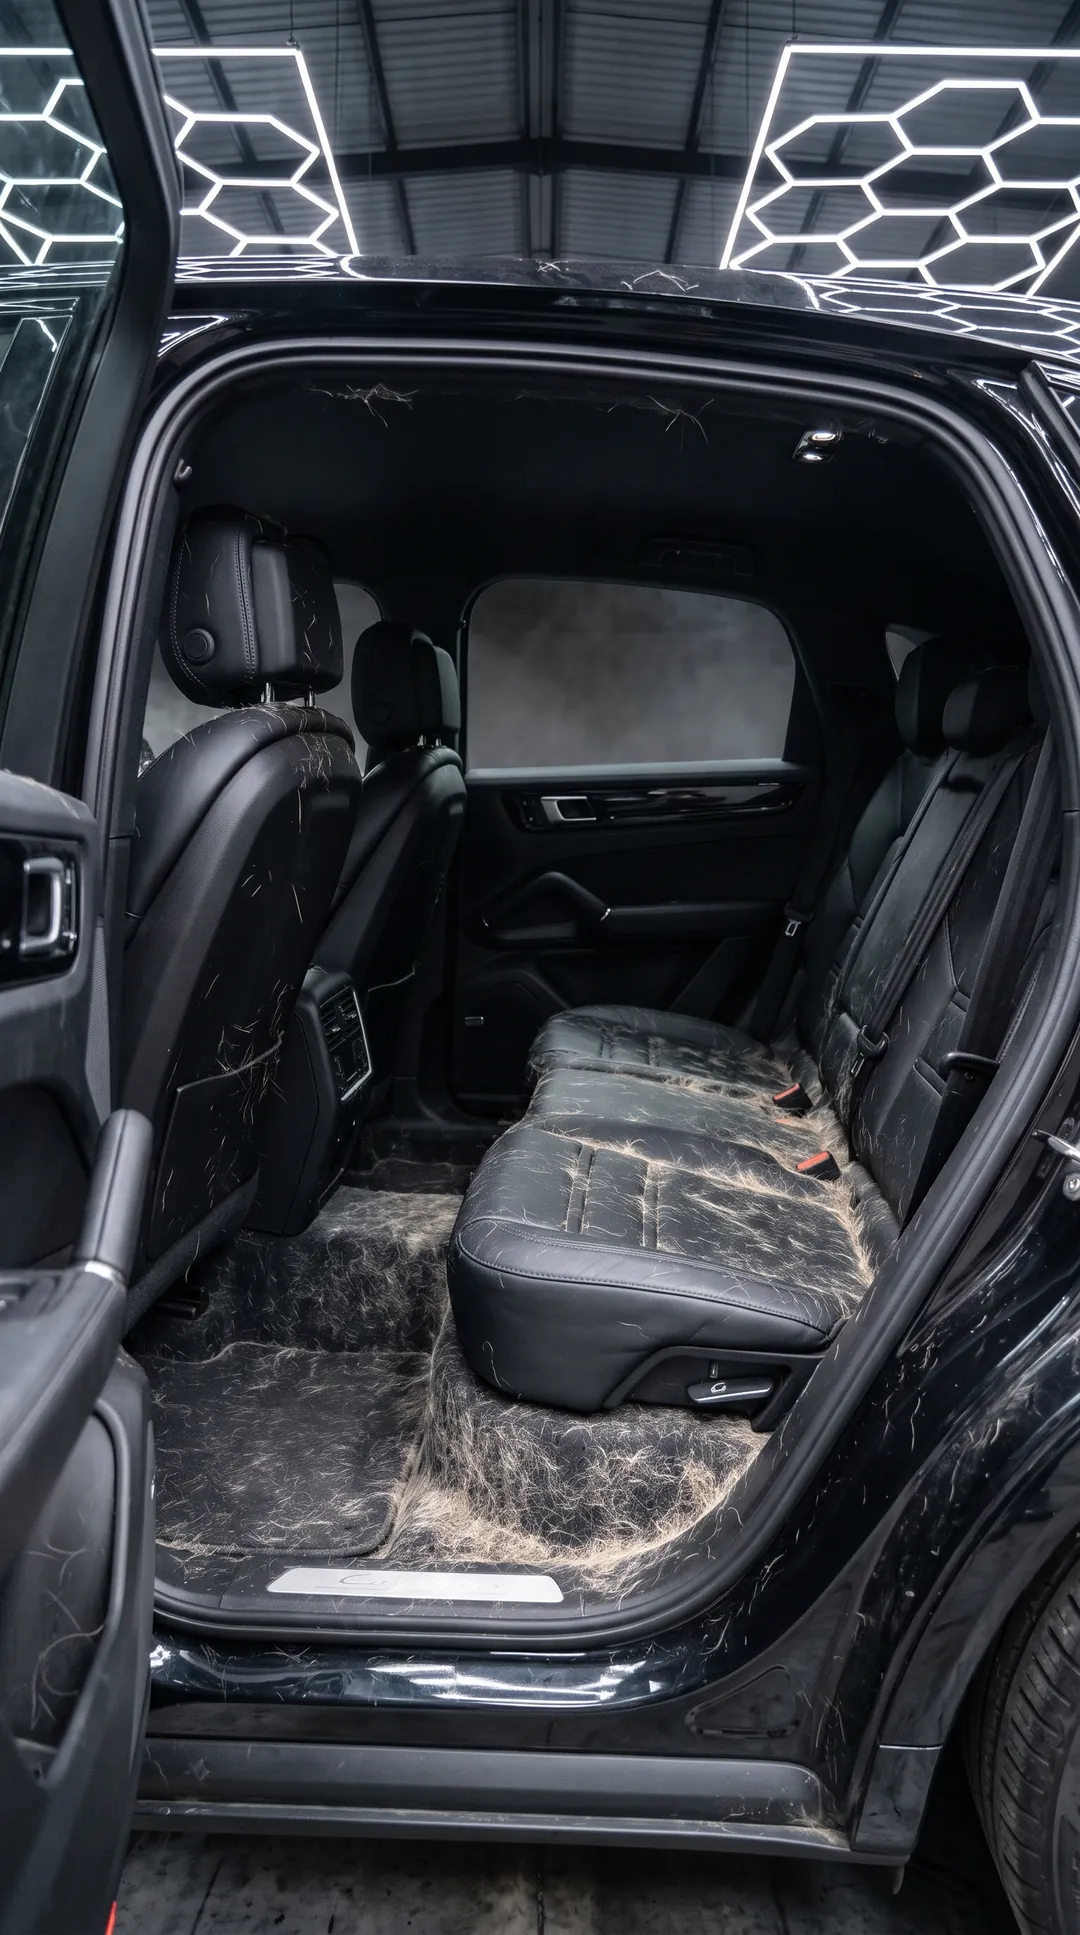
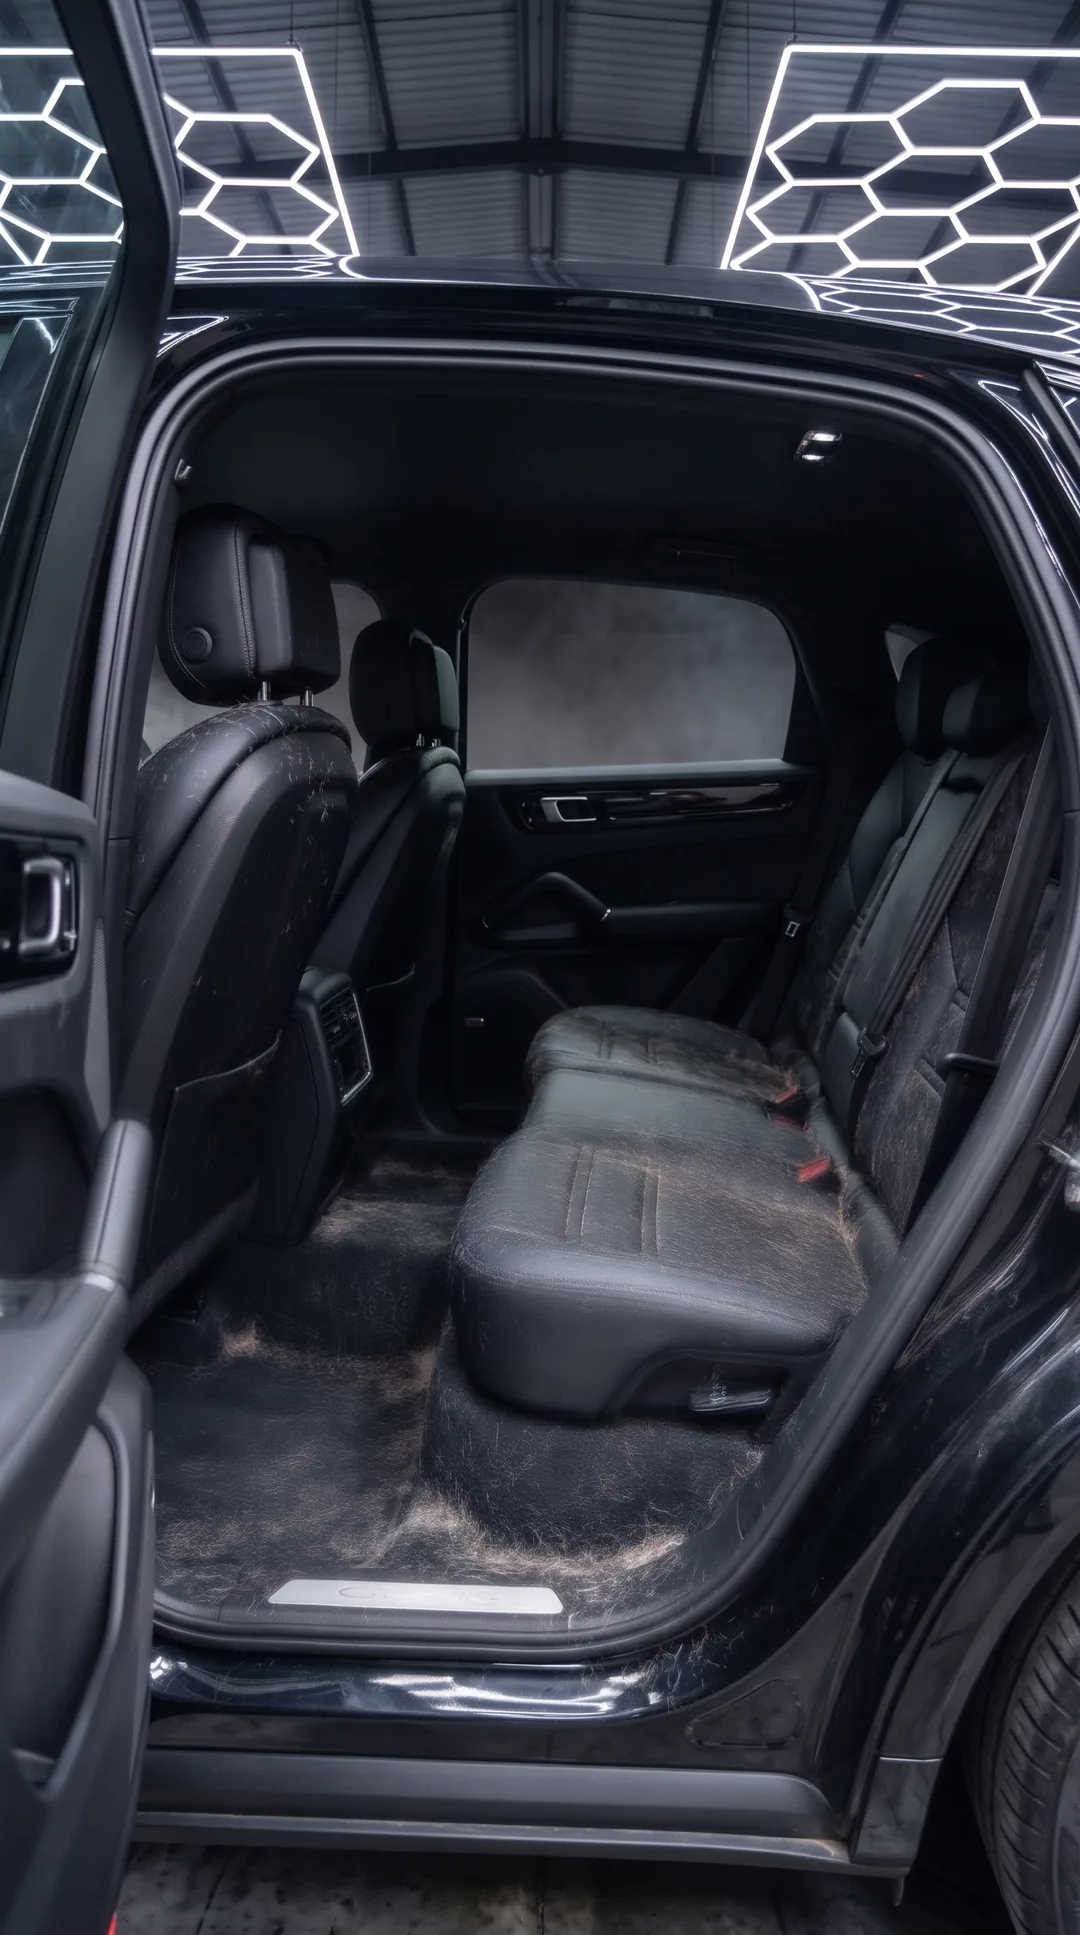
Obra y pelo de mascota pasan a «Si hace falta» (los avisa el taller, no se eligen); foto nueva de pelo de mascota

diff --git a/index.html b/index.html
@@ -212,6 +212,9 @@ h1 {
 .xside.r button { border-right: 0; border-radius: 5px 0 0 5px; box-shadow: inset -2px 0 0 var(--red); text-align: right; justify-content: flex-end; }
 .xside button[aria-current="true"] { background: var(--red); border-color: var(--red); }
 .xside button:active { transform: scale(.95); }
+/* «Si hace falta»: no se eligen, se avisan; sin la franja roja y con borde discontinuo */
+.xside.l button.sup { box-shadow: none; border-style: dashed; border-left: 0; border-color: rgba(255,255,255,.34); color: var(--mute); }
+.xside.l button.sup[aria-current="true"] { color: var(--ink); background: rgba(255,255,255,.14); border-color: var(--line); }
 
 .side button:focus-visible, .cita:focus-visible, .logo:focus-visible, .back:focus-visible, .xside button:focus-visible { outline: 2px solid var(--ink); outline-offset: 2px; }
 @media (max-height: 700px) { .xside button { min-height: 34px; } .xside { gap: 4px; } }
@@ -399,26 +402,28 @@ h1 { font-family: var(--display); text-transform: none; font-weight: 600; font-s
       o('Cerámico', 'Cerámico', 'Recubrimiento que *repele* el agua, la suciedad y los rayos UV.', '03-correccion_pintura_2pasos', '04-ceramica_perlado', 'macro', { la: 'Sin proteger', lb: 'Con cerámico' }),
       o('Mantenimiento', 'Mantenimiento', 'Lavado con espuma activa para que el cerámico *dure años*.', '04-ceramica_mantenimiento', LIMPIO, 'car', { la: 'Lavado', lb: 'Resultado' }),
     ]},
-    extras: { label: 'Extras', groups: ['Interior', 'Exterior'], opts: [] },
+    extras: { label: 'Extras', groups: ['Interior', 'Exterior', 'Si hace falta'], opts: [] },
   };
   const ZONA = { interior: 'Interior', cristales: 'Cristales', motor: 'Motor', ruedas: 'Ruedas', carroceria: 'Carrocería' };
   [
-    ['interior', 'suciedad-extrema', 'Suciedad extrema', 'Obra', 'Polvo de obra, yeso y barro. Interior *recuperado a fondo*.'],
-    ['interior', 'pelo-de-perro', 'Pelo de mascota', 'Mascota', 'Sacamos el *pelo incrustado* en la tapicería.'],
     ['interior', 'cuero', 'Limpieza de cuero', 'Cuero', 'Sin grasa ni brillos sucios: el cuero vuelve a su *tacto mate*.'],
     ['interior', 'coating-cuero', 'Coating de cuero', 'Coating cuero', 'Una protección que impide que los líquidos *penetren y manchen*.'],
     ['interior', 'cinturones', 'Cinturones', 'Cinturones', 'Cintas limpias y con su *color original*.'],
     ['interior', 'plasticos', 'Plásticos interiores', 'Plásticos', 'Salpicadero y puertas sin polvo ni huellas, en *negro satinado*.'],
-    ['interior', 'negro-piano', 'Negro piano', 'Negro piano', 'Pulimos los *micro-arañazos* y las huellas de la consola.'],
     ['cristales', 'pulido-cristales', 'Pulido de cristales', 'Cristales', 'Fuera la *cal*, los arcos del limpia y la *grasa*.'],
     ['motor', 'vano-motor', 'Vano motor', 'Motor', 'Limpieza y protección del motor, *sin riesgos*.'],
     ['ruedas', 'neumaticos', 'Neumáticos', 'Neumáticos', 'Del marrón apagado a un *negro satinado*.'],
     ['ruedas', 'pasos-de-rueda', 'Pasos de rueda', 'Pasos de rueda', 'Barro incrustado fuera, *pasos limpios*.'],
     ['carroceria', 'hidratacion-gomas', 'Hidratación de gomas', 'Gomas', 'Juntas resecas que vuelven a estar *negras y flexibles*.'],
     ['carroceria', 'plateados', 'Plateados', 'Plateados', 'Molduras sin oxidación ni cal, con *brillo de espejo*.'],
+    // Negro piano: de momento con las fotos de la consola; pasará a carrocería (pilares y molduras) cuando estén sus fotos
+    ['interior', 'negro-piano', 'Negro piano', 'Negro piano', 'Pulimos los *micro-arañazos* y las huellas del *negro piano*.'],
     ['carroceria', 'cera-rapida', 'Cera rápida', 'Cera', 'Brillo húmedo y *reflejos nítidos* en minutos.', { slider: true }],
+    // No se contratan: si el coche llega así, Top Detail avisa al cliente antes de empezar (más tiempo y suplemento)
+    ['interior', 'suciedad-extrema', 'Suciedad extrema', 'Obra', 'Si el coche llega con polvo de obra, yeso o barro, *te avisamos antes*: lleva más tiempo y un suplemento.', { sup: true }],
+    ['interior', 'pelo-de-perro', 'Pelo de mascota', 'Mascota', 'Si hay mucho *pelo incrustado* en la tapicería, *te avisamos antes*: lleva más tiempo y un suplemento.', { sup: true }],
   ].forEach(([z, n, name, short, desc, more = {}]) => CATS.extras.opts.push(
-    o(name, short, desc, `05-extras_${z}_${n}_antes`, `05-extras_${z}_${n}_despues`, n, { zone: ZONA[z], group: z === 'interior' ? 0 : 1, ...more })));
+    o(name, short, desc, `05-extras_${z}_${n}_antes`, `05-extras_${z}_${n}_despues`, n, { zone: more.sup ? 'Te avisamos' : ZONA[z], group: more.sup ? 2 : z === 'interior' ? 0 : 1, ...more })));
 
   const $ = id => document.getElementById(id);
   const back = $('back'), front = $('front'), sweep = $('sweep'), phone = $('phone');
@@ -606,7 +611,7 @@ h1 { font-family: var(--display); text-transform: none; font-weight: 600; font-s
       const p = document.createElement('p'); p.textContent = h; nav.append(p);
       items.forEach(([x, i]) => {
         const b = document.createElement('button');
-        b.textContent = x.short; b.dataset.i = i; b.setAttribute('aria-label', x.name);
+        b.textContent = x.short; b.dataset.i = i; b.setAttribute('aria-label', x.name); if (x.sup) b.className = 'sup';
         b.onclick = () => play(cat, i);
         nav.append(b);
       });
@@ -660,7 +665,7 @@ h1 { font-family: var(--display); text-transform: none; font-weight: 600; font-s
     $('name').innerHTML = titleHTML(C, O);
     if (O) { const t = document.createElement('span'); t.className = 'tag'; $('name').append(t); }
     $('desc').innerHTML = rich(O ? O.desc : 'Toca un servicio para verlo en acción, o desliza hacia arriba para ver la pintura de cerca.');
-    const what = !C ? 'vuestros servicios' : `${C.label.split(' ·')[0]} (${O.name})`;
+    const what = !C || O.sup ? 'vuestros servicios' : `${C.label.split(' ·')[0]} (${O.name})`;
     $('cita').href = W + encodeURIComponent(`Hola! Me interesa ${what}. ¿Me dais información?`);
     back.alt = O ? `${O.name}. ${plain(O.desc)}` : 'Porsche Cayenne negro, limpio, en el taller de Top Detail Garage';
     paintAB();
